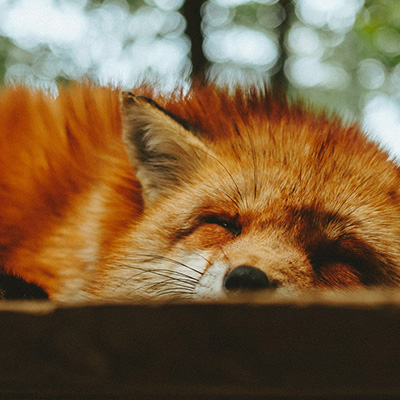
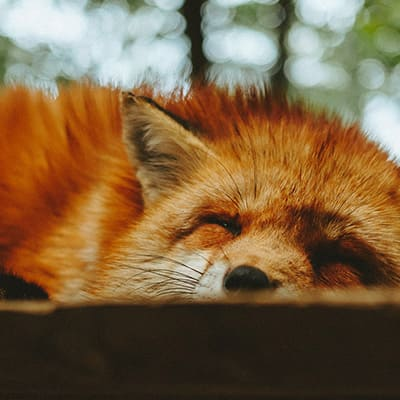
Imagens otimizadas

diff --git a/style.min.css b/style.min.css
@@ -1,1 +1,1 @@
-body,dd,dl,dt,h1,h2,li,p,ul{margin:0;padding:0}img{display:block;max-width:100%}ul{list-style:none}body{background:#faf6ed;color:#222;-webkit-font-smoothing:antialiased}.grid-container{display:grid;grid-template-columns:1fr 120px minmax(300px,800px) 1fr}.menu{grid-column:3/5;margin-top:2rem;margin-bottom:2rem;background:#fb5}.menu ul{display:flex;flex-wrap:wrap;padding:10px}.menu li a{display:block;padding:10px;margin-right:10px;color:#222;text-decoration:none;font-family:'IBM Plex Mono',monospace;font-weight:700;text-transform:uppercase;font-size:.875rem;letter-spacing:.1em}.grid-section{grid-column:2/4;width:100%;box-sizing:border-box;padding:10px;display:grid;grid-template-columns:90px 300px 1fr;grid-gap:20px;margin-bottom:4rem}.titulo{font-family:'Playfair Display SC',georgia;font-size:6rem;line-height:1;font-weight:400;margin-bottom:1rem;grid-column:1/4}.animais h2{font-family:'IBM Plex Mono',monospace;font-size:1rem;text-transform:uppercase;letter-spacing:.1em;margin-bottom:1rem;color:#e54}.animais h2::before{content:'';display:inline-block;width:40px;height:10px;margin-right:10px;background:#fb5}.animais p{font-family:Helvetica,Arial;line-height:1.2;margin-bottom:1rem}.animais-lista{height:370px;overflow-y:scroll;grid-column:2}.animais-lista li{cursor:pointer}.animais-lista::-webkit-scrollbar{width:18px}.animais-lista::-webkit-scrollbar-thumb{background:#fb5;border-left:4px solid #faf6ed;border-right:4px solid #faf6ed}.animais-lista::-webkit-scrollbar-track{background:#faf6ed}.animais-descricao{grid-column:3}.animais-descricao section{margin-bottom:3rem}.faq-lista{grid-column:2/4}.faq-lista dt{font-family:'IBM Plex Mono',monospace;font-weight:700;margin-top:2rem;margin-bottom:.5rem;color:#e54}.faq-lista dt::before{content:'';display:inline-block;width:20px;height:10px;margin-right:10px;background:#fb5}.faq-lista dd{font-family:Helvetica,Arial;margin-bottom:.5rem;margin-left:30px}.mapa{grid-column:2}.dados{grid-column:3}.dados li{margin-bottom:1rem;font-family:Helvetica,Arial}.dados li::before{content:'';display:inline-block;width:20px;height:10px;margin-right:10px;background:#fb5}.copy{grid-column:3/5;margin-bottom:2rem;background:#fb5}.copy p{padding:20px;font-family:'IBM Plex Mono',monospace;font-weight:700}@media (max-width:700px){.grid-container{grid-template-columns:1fr}.copy,.grid-section,.menu{grid-column:1}.grid-section{grid-template-columns:100px 1fr;grid-gap:10px}.animais-lista{grid-column:1}.dados,.faq-lista,.mapa{grid-column:1/3}.grid-section h1{font-size:2.5rem}.menu{margin-top:0}.copy{margin-bottom:0}}.js [data-tab=content] section{display:none}[data-tab=content] section.ativo{display:block!important}[data-tab=content] section.ativo.show-right{animation:show-right .5s forwards}[data-tab=content] section.ativo.show-down{animation:show-down .5s forwards}@keyframes show-right{from{opacity:0;transform:translate3d(-30px,0,0)}to{opacity:1;transform:translate3d(0,0,0)}}@keyframes show-down{from{opacity:0;transform:translate3d(0,-30px,0)}to{opacity:1;transform:translate3d(0,0,0)}}.js [data-anime=accordion] dd{display:none}[data-anime=accordion] dt::after{content:'';width:10px;height:10px;display:inline-block;background:url('img/arrow-red.svg') no-repeat center center;margin-left:10px;transform:rotate(90deg);transition:transform .3s}[data-anime=accordion] dt.ativo::after{content:'';transform:rotate(-90deg)}[data-anime=accordion] dd.ativo{display:block;animation:slideDown .5s forwards}@keyframes slideDown{from{opacity:0;max-height:0}to{max-height:200px;opacity:1}}.js [data-anime=scroll]{opacity:0;transform:translate3d(-30px,0,0);transition:.3s}.js [data-anime=scroll].ativo{opacity:1;transform:translate3d(0,0,0)}[data-semana]::after{display:inline-block;content:'';width:6px;height:6px;background:#e54;border-radius:50%;margin-left:4px;border:2px solid #000}[data-semana].aberto::after{background:#3f4}.btc-preco{background:#3f4;padding:.2rem .5rem;font-weight:700;border-radius:2px}.arrow-black{background:url('img/arrow-black.svg') no-repeat center center;display:inline-block;width:8px;height:10px}.modal-container{height:100vh;width:100%;background:rgba(0,0,0,.5);position:fixed;top:0;left:0;z-index:2000;display:none;justify-content:center;align-items:center}.modal-container.ativo{display:flex}.modal{background:#fff;width:80vw;max-width:600px;padding:40px;border:10px solid #fb5;box-shadow:0 0 0 10px #fff;position:relative;box-sizing:border-box}@keyframes modal{from{opacity:0;transform:translate3d(0,-30px,0)}to{opacity:1;transform:translate3d(0,0,0)}}.ativo .modal{animation:modal .3s forwards}.fechar{width:50px;height:50px;border-radius:50%;border:4px solid #fff;top:-30px;right:-30px;position:absolute;background:#e54 url('img/fechar.svg') no-repeat center center;box-shadow:0 4px 4px 0 rgba(0,0,0,.3);cursor:pointer}.modal label{font-family:'IBM Plex Mono',monospace;display:block;font-weight:700;margin:1rem 0 .5rem 0}.modal input{width:100%;padding:.7rem .5rem;box-sizing:border-box;border:2px solid #222;border-radius:0}.modal button[type=submit]{display:block;background:#e54;border:none;border-radius:4px;padding:.7rem 2rem;font-size:1rem;color:#fff;font-family:'IBM Plex Mono',monospace;margin-top:1rem;font-weight:700}.tooltip{position:absolute;z-index:500;background:rgba(0,0,0,.6);box-shadow:0 0 0 2px #fb5,0 0 0 6px rgba(0,0,0,.6);padding:.5rem;color:#fff;font-family:'IBM Plex Mono',monospace;font-weight:700;font-size:.875rem;max-width:170px;border-radius:2px;top:0;left:0}[data-dropdown]{position:relative}[data-dropdown] .dropdown-menu{display:none}[data-dropdown].active .dropdown-menu,[data-dropdown]:hover .dropdown-menu{display:block;animation:show-up .3s forwards}@keyframes show-up{from{opacity:0;transform:translate3d(0,30px,0)}to{opacity:1;transform:translate3d(0,0,0)}}.dropdown-menu{position:absolute;top:38px;background:#e54;border:2px solid #333;z-index:200}.dropdown-menu::before{content:'';display:block;position:absolute;top:-10px;width:0;height:0;border-left:10px solid transparent;border-right:10px solid transparent;border-bottom:10px solid #e54}.dropdown-menu li a:hover{color:#fff}@media (max-width:700px){[data-dropdown] .dropdown-menu{display:block;animation:show-up .3s forwards}}[data-menu=button]{display:none}@media (max-width:700px){.js [data-menu=button]{display:flex;background:#222;border:none;padding:.5rem 1rem;border-radius:4px;text-transform:uppercase;font-family:'IBM Plex Mono',monospace;font-weight:700;color:#fff;cursor:pointer;margin:10px;align-items:center;position:relative;z-index:300}.js [data-menu=button]::before{margin-right:4px;content:'';display:inline-block;height:2px;width:12px;background:#fff;box-shadow:0 4px #fff,0 -4px #fff;transition:transform .3s}.js [data-menu=button].active::before{transform:rotate(90deg)}.js [data-menu=list]{display:none;position:absolute;background:#fb5;width:160px;z-index:200;top:0;padding:60px 0 20px 0;box-shadow:2px 2px 2px 0 rgba(0,0,0,.2)}.js [data-menu=list].active{display:block;animation:show-right .3s forwards}.js .dropdown-menu{position:static;border:none}}.numeros-grid{grid-column:2/4;display:grid;grid-template-columns:1fr 1fr;grid-gap:30px}.numeros-grid h3{font-family:'Playfair Display SC';font-size:2rem;margin-bottom:.5rem}.numeros-grid span{font-family:'IBM Plex Mono',monospace;font-weight:700;font-size:1.5rem;color:#e54}@media (max-width:700px){.numeros-grid{grid-column:1}.numeros-grid h3{font-size:1.5rem}}.galeria{grid-column:1/-1}.slide-wrapper{overflow:hidden;grid-column:1/-1}.slide{display:flex}.slide:hover{will-change:transform}.slide li{flex-shrink:0;width:80vw;max-width:800px;margin:0 20px;border-radius:4px;overflow:hidden;box-shadow:0 2px 4px rgba(0,0,0,.4);opacity:.8;transform:scale(.8);transition:.4s}.slide li.active{opacity:1;transform:scale(1)}.custom-controls{display:flex;justify-content:center;flex-wrap:wrap;grid-column:1/-1}.custom-controls li{opacity:.8;transform:scale(.8);width:40px;height:40px;border-radius:50%;overflow:hidden;margin:2px;box-shadow:0 2px 2px rgba(0,0,0,.5);transition:.3s}.custom-controls li.active{opacity:1;transform:scale(1)}
+body,dd,dl,dt,h1,h2,li,p,ul{margin:0;padding:0}img{display:block;max-width:100%}ul{list-style:none}body{background:#faf6ed;color:#222;-webkit-font-smoothing:antialiased}.grid-container{display:grid;grid-template-columns:1fr 120px minmax(300px,800px) 1fr}.menu{grid-column:3/5;margin-top:2rem;margin-bottom:2rem;background:#fb5}.menu ul{display:flex;flex-wrap:wrap;padding:10px}.menu li a{display:block;padding:10px;margin-right:10px;color:#222;text-decoration:none;font-family:"IBM Plex Mono",monospace;font-weight:700;text-transform:uppercase;font-size:.875rem;letter-spacing:.1em}.grid-section{grid-column:2/4;width:100%;box-sizing:border-box;padding:10px;display:grid;grid-template-columns:90px 300px 1fr;grid-gap:20px;margin-bottom:4rem}.titulo{font-family:"Playfair Display SC",georgia;font-size:6rem;line-height:1;font-weight:400;margin-bottom:1rem;grid-column:1/4}.animais h2{font-family:"IBM Plex Mono",monospace;font-size:1rem;text-transform:uppercase;letter-spacing:.1em;margin-bottom:1rem;color:#e54}.animais h2::before{content:"";display:inline-block;width:40px;height:10px;margin-right:10px;background:#fb5}.animais p{font-family:Helvetica,Arial;line-height:1.2;margin-bottom:1rem}.animais-lista{height:370px;overflow-y:scroll;grid-column:2}.animais-lista li{cursor:pointer}.animais-lista::-webkit-scrollbar{width:18px}.animais-lista::-webkit-scrollbar-thumb{background:#fb5;border-left:4px solid #faf6ed;border-right:4px solid #faf6ed}.animais-lista::-webkit-scrollbar-track{background:#faf6ed}.animais-descricao{grid-column:3}.animais-descricao section{margin-bottom:3rem}.faq-lista{grid-column:2/4}.faq-lista dt{font-family:"IBM Plex Mono",monospace;font-weight:700;margin-top:2rem;margin-bottom:.5rem;color:#e54;cursor:pointer}.faq-lista dt::before{content:"";display:inline-block;width:20px;height:10px;margin-right:10px;background:#fb5}.faq-lista dd{font-family:Helvetica,Arial;margin-bottom:.5rem;margin-left:30px}.mapa{grid-column:2}.dados{grid-column:3}.dados li{margin-bottom:1rem;font-family:Helvetica,Arial}.dados li::before{content:"";display:inline-block;width:20px;height:10px;margin-right:10px;background:#fb5}.copy{grid-column:3/5;margin-bottom:2rem;background:#fb5}.copy p{padding:20px;font-family:"IBM Plex Mono",monospace;font-weight:700}@media (max-width:700px){.grid-container{grid-template-columns:1fr}.copy,.grid-section,.menu{grid-column:1}.grid-section{grid-template-columns:100px 1fr;grid-gap:10px}.animais-lista{grid-column:1}.dados,.faq-lista,.mapa{grid-column:1/3}.grid-section h1{font-size:2.5rem}.menu{margin-top:0}.copy{margin-bottom:0}}.js [data-tab=content] section{display:none}[data-tab=content] section.ativo{display:block!important}[data-tab=content] section.ativo.show-right{animation:show-right .5s forwards}[data-tab=content] section.ativo.show-down{animation:show-down .5s forwards}@keyframes show-right{from{opacity:0;transform:translate3d(-30px,0,0)}to{opacity:1;transform:translate3d(0,0,0)}}@keyframes show-down{from{opacity:0;transform:translate3d(0,-30px,0)}to{opacity:1;transform:translate3d(0,0,0)}}.js [data-anime=accordion] dd{display:none}[data-anime=accordion] dt::after{content:"";width:10px;height:10px;display:inline-block;background:url("img/arrow-red.svg") no-repeat center center;margin-left:10px;transform:rotate(90deg);transition:transform .3s}[data-anime=accordion] dt.ativo::after{content:"";transform:rotate(-90deg)}[data-anime=accordion] dd.ativo{display:block;animation:slideDown .5s forwards}@keyframes slideDown{from{opacity:0;max-height:0}to{max-height:200px;opacity:1}}.js [data-anime=scroll]{opacity:0;transform:translate3d(-30px,0,0);transition:.3s}.js [data-anime=scroll].ativo{opacity:1;transform:translate3d(0,0,0)}[data-semana]::after{display:inline-block;content:"";width:6px;height:6px;background:#e54;border-radius:50%;margin-left:4px;border:2px solid #000}[data-semana].aberto::after{background:#3f4}.btc-preco{background:#3f4;padding:.2rem .5rem;font-weight:700;border-radius:2px}.arrow-black{background:url("img/arrow-black.svg") no-repeat center center;display:inline-block;width:8px;height:10px}.modal-container{height:100vh;width:100%;background:rgba(0,0,0,.5);position:fixed;top:0;left:0;z-index:2000;display:none;justify-content:center;align-items:center}.modal-container.ativo{display:flex}.modal{background:#fff;width:80vw;max-width:600px;padding:40px;border:10px solid #fb5;box-shadow:0 0 0 10px #fff;position:relative;box-sizing:border-box}@keyframes modal{from{opacity:0;transform:translate3d(0,-30px,0)}to{opacity:1;transform:translate3d(0,0,0)}}.ativo .modal{animation:modal .3s forwards}.fechar{width:50px;height:50px;border-radius:50%;border:4px solid #fff;top:-30px;right:-30px;position:absolute;background:#e54 url('img/fechar.svg') no-repeat center center;box-shadow:0 4px 4px 0 rgba(0,0,0,.3);cursor:pointer}.modal label{font-family:'IBM Plex Mono',monospace;display:block;font-weight:700;margin:1rem 0 .5rem 0}.modal input{width:100%;padding:.7rem .5rem;box-sizing:border-box;border:2px solid #222;border-radius:0}.modal button[type=submit]{display:block;background:#e54;border:none;border-radius:4px;padding:.7rem 2rem;font-size:1rem;color:#fff;font-family:'IBM Plex Mono',monospace;margin-top:1rem;font-weight:700}.tooltip{position:absolute;z-index:500;background:rgba(0,0,0,.6);box-shadow:0 0 0 2px #fb5,0 0 0 6px rgba(0,0,0,.6);padding:.5rem;color:#fff;font-family:'IBM Plex Mono',monospace;font-weight:700;font-size:.875rem;max-width:170px;border-radius:2px;top:0;left:0}[data-dropdown]{position:relative}[data-dropdown] .dropdown-menu{display:none}[data-dropdown].active .dropdown-menu,[data-dropdown]:hover .dropdown-menu{display:block;animation:show-up .3s forwards}@keyframes show-up{from{opacity:0;transform:translate3d(0,30px,0)}to{opacity:1;transform:translate3d(0,0,0)}}.dropdown-menu{position:absolute;top:38px;background:#e54;border:2px solid #333;z-index:200}.dropdown-menu::before{content:'';display:block;position:absolute;top:-10px;width:0;height:0;border-left:10px solid transparent;border-right:10px solid transparent;border-bottom:10px solid #e54}.dropdown-menu li a:hover{color:#fff}@media (max-width:700px){[data-dropdown] .dropdown-menu{display:block;animation:show-up .3s forwards}}[data-menu=button]{display:none}@media (max-width:700px){.js [data-menu=button]{display:flex;background:#222;border:none;padding:.5rem 1rem;border-radius:4px;text-transform:uppercase;font-family:'IBM Plex Mono',monospace;font-weight:700;color:#fff;cursor:pointer;margin:10px;align-items:center;position:relative;z-index:300}.js [data-menu=button]::before{margin-right:4px;content:'';display:inline-block;height:2px;width:12px;background:#fff;box-shadow:0 4px #fff,0 -4px #fff;transition:transform .3s}.js [data-menu=button].active::before{transform:rotate(90deg)}.js [data-menu=list]{display:none;position:absolute;background:#fb5;width:160px;z-index:200;top:0;padding:60px 0 20px 0;box-shadow:2px 2px 2px 0 rgba(0,0,0,.2)}.js [data-menu=list].active{display:block;animation:show-right .3s forwards}.js .dropdown-menu{position:static;border:none}}.numeros-grid{grid-column:2/4;display:grid;grid-template-columns:1fr 1fr;grid-gap:30px}.numeros-grid h3{font-family:'Playfair Display SC';font-size:2rem;margin-bottom:.5rem}.numeros-grid span{font-family:'IBM Plex Mono',monospace;font-weight:700;font-size:1.5rem;color:#e54}@media (max-width:700px){.numeros-grid{grid-column:1}.numeros-grid h3{font-size:1.5rem}}.galeria{grid-column:1/-1}.slide-wrapper{overflow:hidden;grid-column:1/-1}.slide{display:flex}.slide:hover{will-change:transform}.slide li{flex-shrink:0;width:80vw;max-width:800px;margin:0 20px;border-radius:4px;overflow:hidden;box-shadow:0 2px 4px rgba(0,0,0,.4);opacity:.8;transform:scale(.8);transition:.4s}.slide li.active{opacity:1;transform:scale(1)}.custom-controls{display:flex;justify-content:center;flex-wrap:wrap;grid-column:1/-1}.custom-controls li{opacity:.8;transform:scale(.8);width:40px;height:40px;border-radius:50%;overflow:hidden;margin:2px;box-shadow:0 2px 2px rgba(0,0,0,.5);transition:.3s}.custom-controls li.active{opacity:1;transform:scale(1)}

diff --git a/css/geral.css b/css/geral.css
@@ -1,4 +1,12 @@
-body, h1, h2, ul, li, p, dd, dt, dl {
+body,
+h1,
+h2,
+ul,
+li,
+p,
+dd,
+dt,
+dl {
   margin: 0px;
   padding: 0px;
 }
@@ -27,7 +35,7 @@ body {
   grid-column: 3 / 5;
   margin-top: 2rem;
   margin-bottom: 2rem;
-  background: #FB5;
+  background: #fb5;
 }
 
 .menu ul {
@@ -42,11 +50,11 @@ body {
   margin-right: 10px;
   color: #222;
   text-decoration: none;
-  font-family: 'IBM Plex Mono', monospace;
+  font-family: "IBM Plex Mono", monospace;
   font-weight: bold;
   text-transform: uppercase;
   font-size: 0.875rem;
-  letter-spacing: .1em;
+  letter-spacing: 0.1em;
 }
 
 .grid-section {
@@ -61,7 +69,7 @@ body {
 }
 
 .titulo {
-  font-family: 'Playfair Display SC', georgia;
+  font-family: "Playfair Display SC", georgia;
   font-size: 6rem;
   line-height: 1;
   font-weight: 400;
@@ -70,21 +78,21 @@ body {
 }
 
 .animais h2 {
-  font-family: 'IBM Plex Mono', monospace;
+  font-family: "IBM Plex Mono", monospace;
   font-size: 1rem;
   text-transform: uppercase;
-  letter-spacing: .1em;
+  letter-spacing: 0.1em;
   margin-bottom: 1rem;
-  color: #E54;
+  color: #e54;
 }
 
 .animais h2::before {
-  content: '';
+  content: "";
   display: inline-block;
   width: 40px;
   height: 10px;
   margin-right: 10px;
-  background: #FB5;
+  background: #fb5;
 }
 
 .animais p {
@@ -108,7 +116,7 @@ body {
 }
 
 .animais-lista::-webkit-scrollbar-thumb {
-  background: #FB5;
+  background: #fb5;
   border-left: 4px solid #faf6ed;
   border-right: 4px solid #faf6ed;
 }
@@ -126,29 +134,30 @@ body {
 }
 
 .faq-lista {
-  grid-column: 2 / 4
+  grid-column: 2 / 4;
 }
 
 .faq-lista dt {
-  font-family: 'IBM Plex Mono', monospace;
+  font-family: "IBM Plex Mono", monospace;
   font-weight: bold;
   margin-top: 2rem;
-  margin-bottom: .5rem;
-  color: #E54;
+  margin-bottom: 0.5rem;
+  color: #e54;
+  cursor: pointer;
 }
 
 .faq-lista dt::before {
-  content: '';
+  content: "";
   display: inline-block;
   width: 20px;
   height: 10px;
   margin-right: 10px;
-  background: #FB5;
+  background: #fb5;
 }
 
 .faq-lista dd {
   font-family: Helvetica, Arial;
-  margin-bottom: .5rem;
+  margin-bottom: 0.5rem;
   margin-left: 30px;
 }
 
@@ -166,23 +175,23 @@ body {
 }
 
 .dados li::before {
-  content: '';
+  content: "";
   display: inline-block;
   width: 20px;
   height: 10px;
   margin-right: 10px;
-  background: #FB5;
+  background: #fb5;
 }
 
 .copy {
   grid-column: 3/5;
   margin-bottom: 2rem;
-  background: #FB5;
+  background: #fb5;
 }
 
 .copy p {
   padding: 20px;
-  font-family: 'IBM Plex Mono', monospace;
+  font-family: "IBM Plex Mono", monospace;
   font-weight: bold;
 }
 
@@ -190,7 +199,9 @@ body {
   .grid-container {
     grid-template-columns: 1fr;
   }
-  .menu, .grid-section, .copy {
+  .menu,
+  .grid-section,
+  .copy {
     grid-column: 1;
   }
   .grid-section {
@@ -200,7 +211,9 @@ body {
   .animais-lista {
     grid-column: 1;
   }
-  .faq-lista, .dados, .mapa {
+  .faq-lista,
+  .dados,
+  .mapa {
     grid-column: 1 / 3;
   }
   .grid-section h1 {
@@ -223,11 +236,11 @@ body {
 }
 
 [data-tab="content"] section.ativo.show-right {
-  animation: show-right .5s forwards;
+  animation: show-right 0.5s forwards;
 }
 
 [data-tab="content"] section.ativo.show-down {
-  animation: show-down .5s forwards;
+  animation: show-down 0.5s forwards;
 }
 
 @keyframes show-right {
@@ -257,24 +270,24 @@ body {
 }
 
 [data-anime="accordion"] dt::after {
-  content: '';
+  content: "";
   width: 10px;
   height: 10px;
   display: inline-block;
-  background: url('../img/arrow-red.svg') no-repeat center center;
+  background: url("../img/arrow-red.svg") no-repeat center center;
   margin-left: 10px;
   transform: rotate(90deg);
-  transition: transform .3s;
+  transition: transform 0.3s;
 }
 
 [data-anime="accordion"] dt.ativo::after {
-  content: '';
+  content: "";
   transform: rotate(-90deg);
 }
 
 [data-anime="accordion"] dd.ativo {
   display: block;
-  animation: slideDown .5s forwards;
+  animation: slideDown 0.5s forwards;
 }
 
 @keyframes slideDown {
@@ -291,7 +304,7 @@ body {
 .js [data-anime="scroll"] {
   opacity: 0;
   transform: translate3d(-30px, 0, 0);
-  transition: .3s;
+  transition: 0.3s;
 }
 
 .js [data-anime="scroll"].ativo {
@@ -301,28 +314,28 @@ body {
 
 [data-semana]::after {
   display: inline-block;
-  content: '';
+  content: "";
   width: 6px;
   height: 6px;
-  background: #E54;
+  background: #e54;
   border-radius: 50%;
   margin-left: 4px;
   border: 2px solid #000;
 }
 
 [data-semana].aberto::after {
-  background: #3F4;
+  background: #3f4;
 }
 
 .btc-preco {
-  background: #3F4;
-  padding: .2rem .5rem;
+  background: #3f4;
+  padding: 0.2rem 0.5rem;
   font-weight: bold;
-  border-radius: 2px;  
+  border-radius: 2px;
 }
 
 .arrow-black {
-  background: url('../img/arrow-black.svg') no-repeat center center;
+  background: url("../img/arrow-black.svg") no-repeat center center;
   display: inline-block;
   width: 8px;
   height: 10px;
